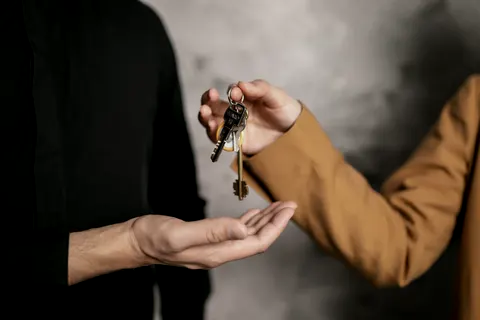
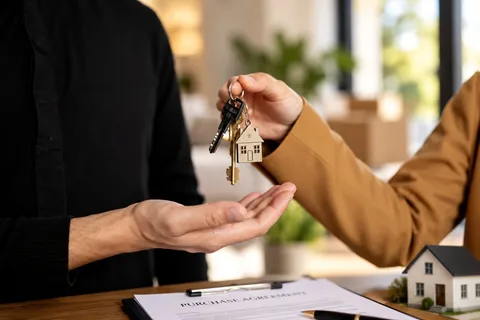
Poză nouă la „Cum lucrăm”

diff --git a/index.html b/index.html
@@ -378,9 +378,9 @@
           <p class="section-head__lead">Poți începe cu orice etapă. Dacă ai găsit deja locuința, trecem direct la verificare.</p>
           <figure class="steps__photo" data-wipe>
             <picture>
-              <source type="image/webp" srcset="/img/predare-chei-480.webp 480w, /img/predare-chei-800.webp 800w, /img/predare-chei-1600.webp 1600w" sizes="(min-width: 960px) 540px, 92vw">
+              <source type="image/webp" srcset="/img/predare-chei-480.webp 480w, /img/predare-chei-800.webp 800w, /img/predare-chei-1536.webp 1536w" sizes="(min-width: 960px) 540px, 92vw">
               <img src="/img/predare-chei-800.webp" width="800" height="533" loading="lazy" decoding="async"
-                   alt="O persoană în sacou ocru predă cheile unei locuințe în palma altei persoane, îmbrăcată în negru.">
+                   alt="O persoană în sacou ocru predă cheile cu un breloc în formă de casă în palma altei persoane, deasupra unui contract.">
             </picture>
           </figure>
         </header>
